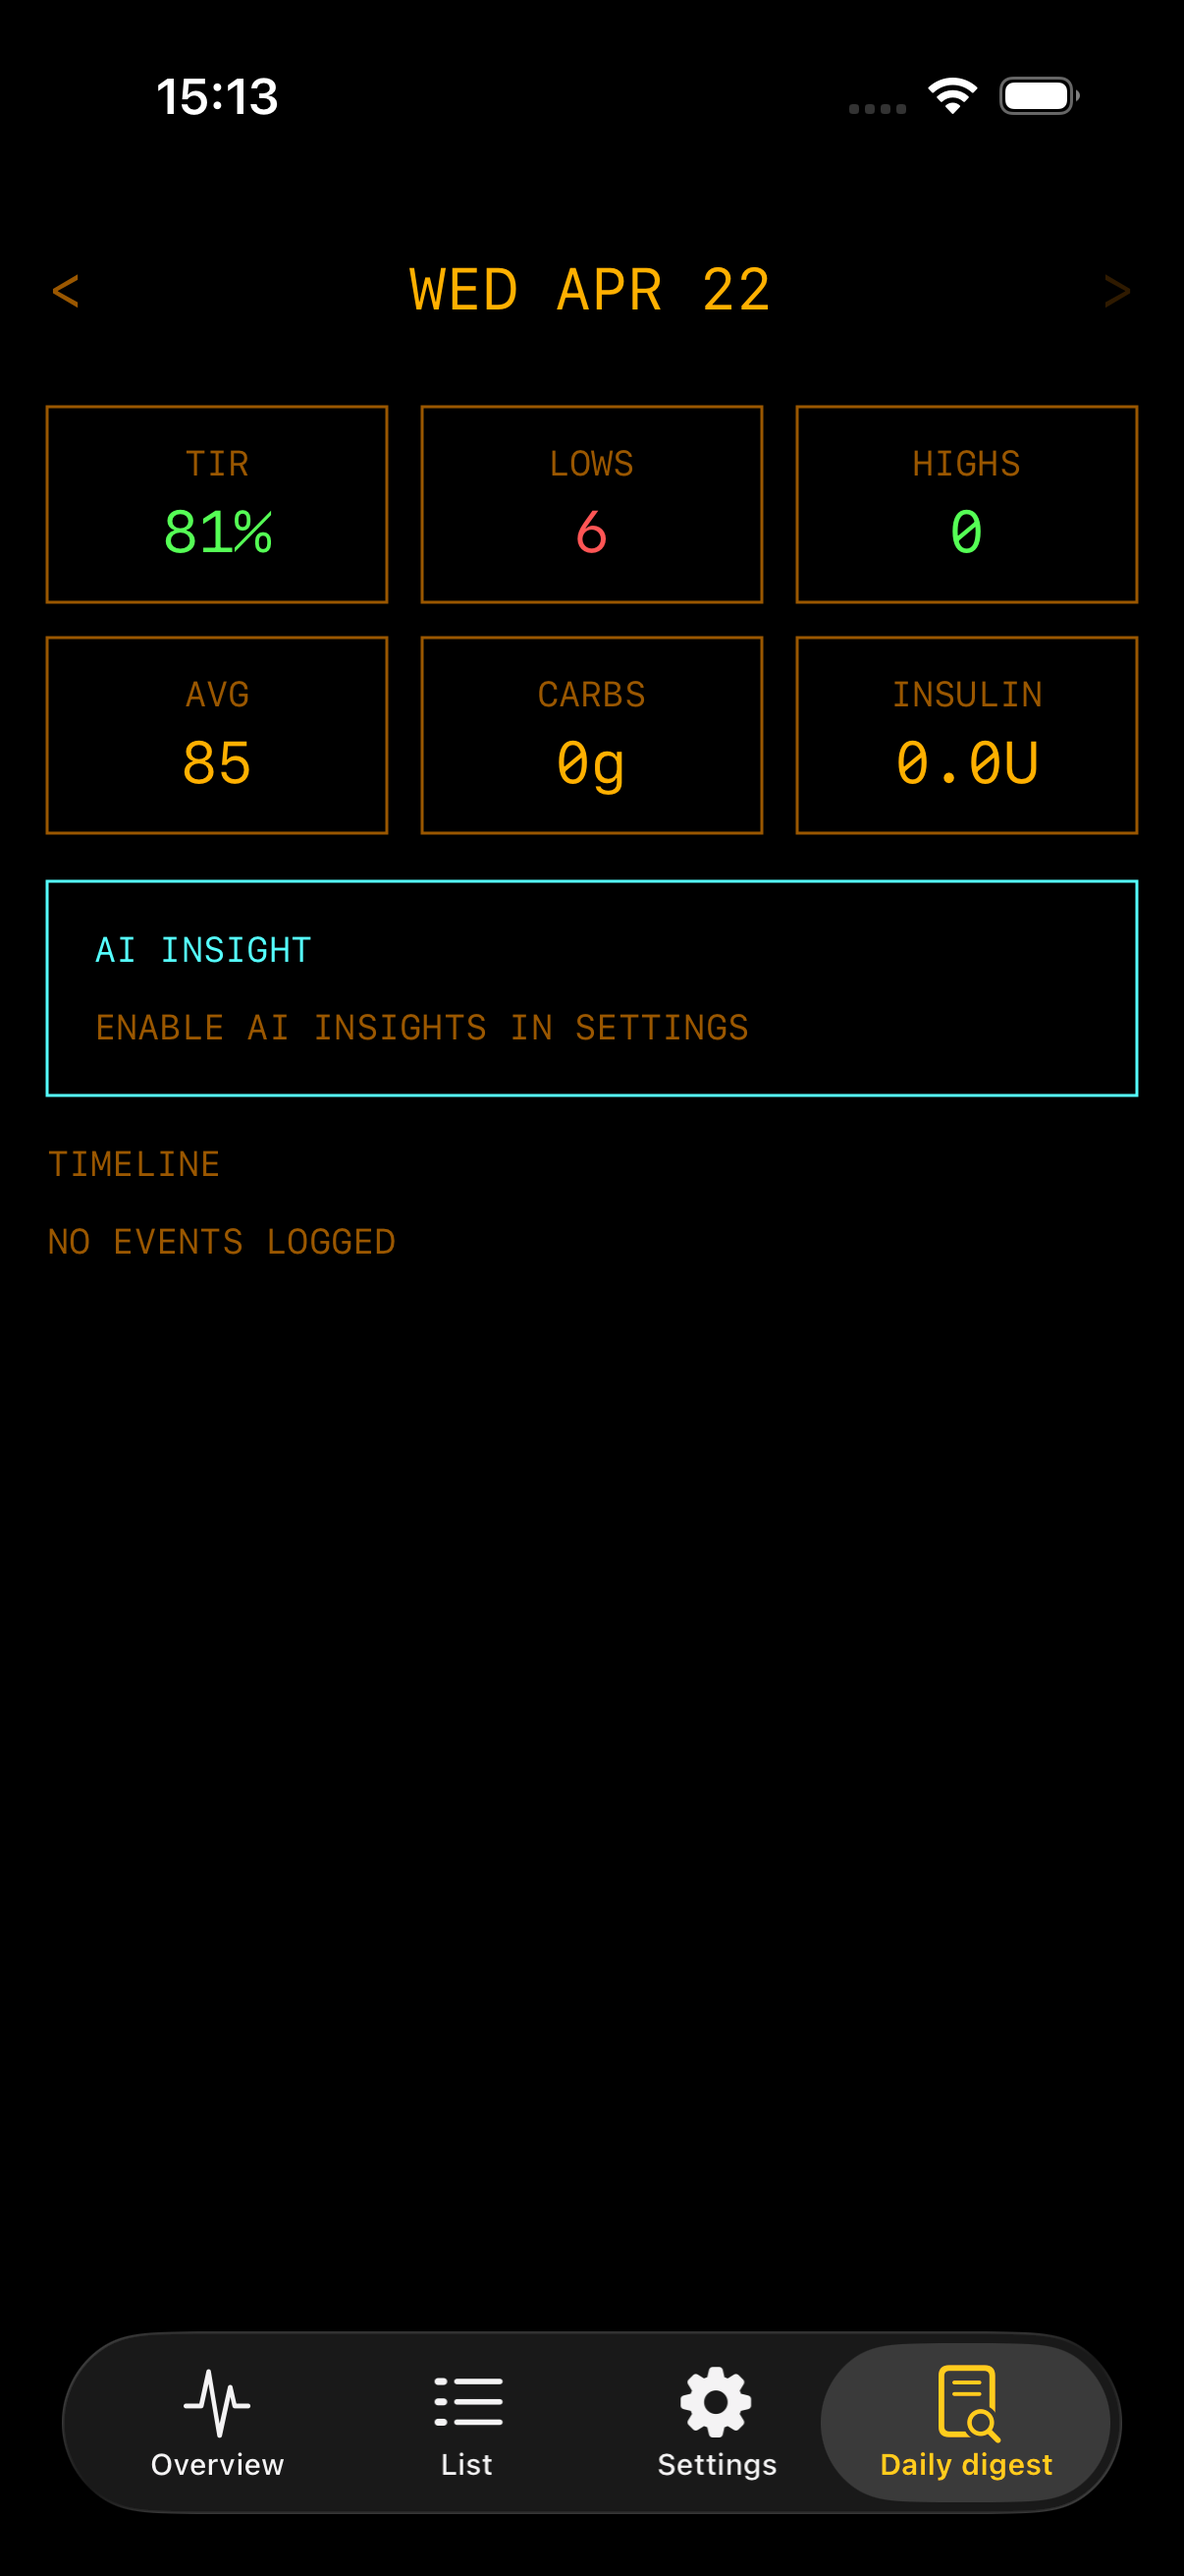
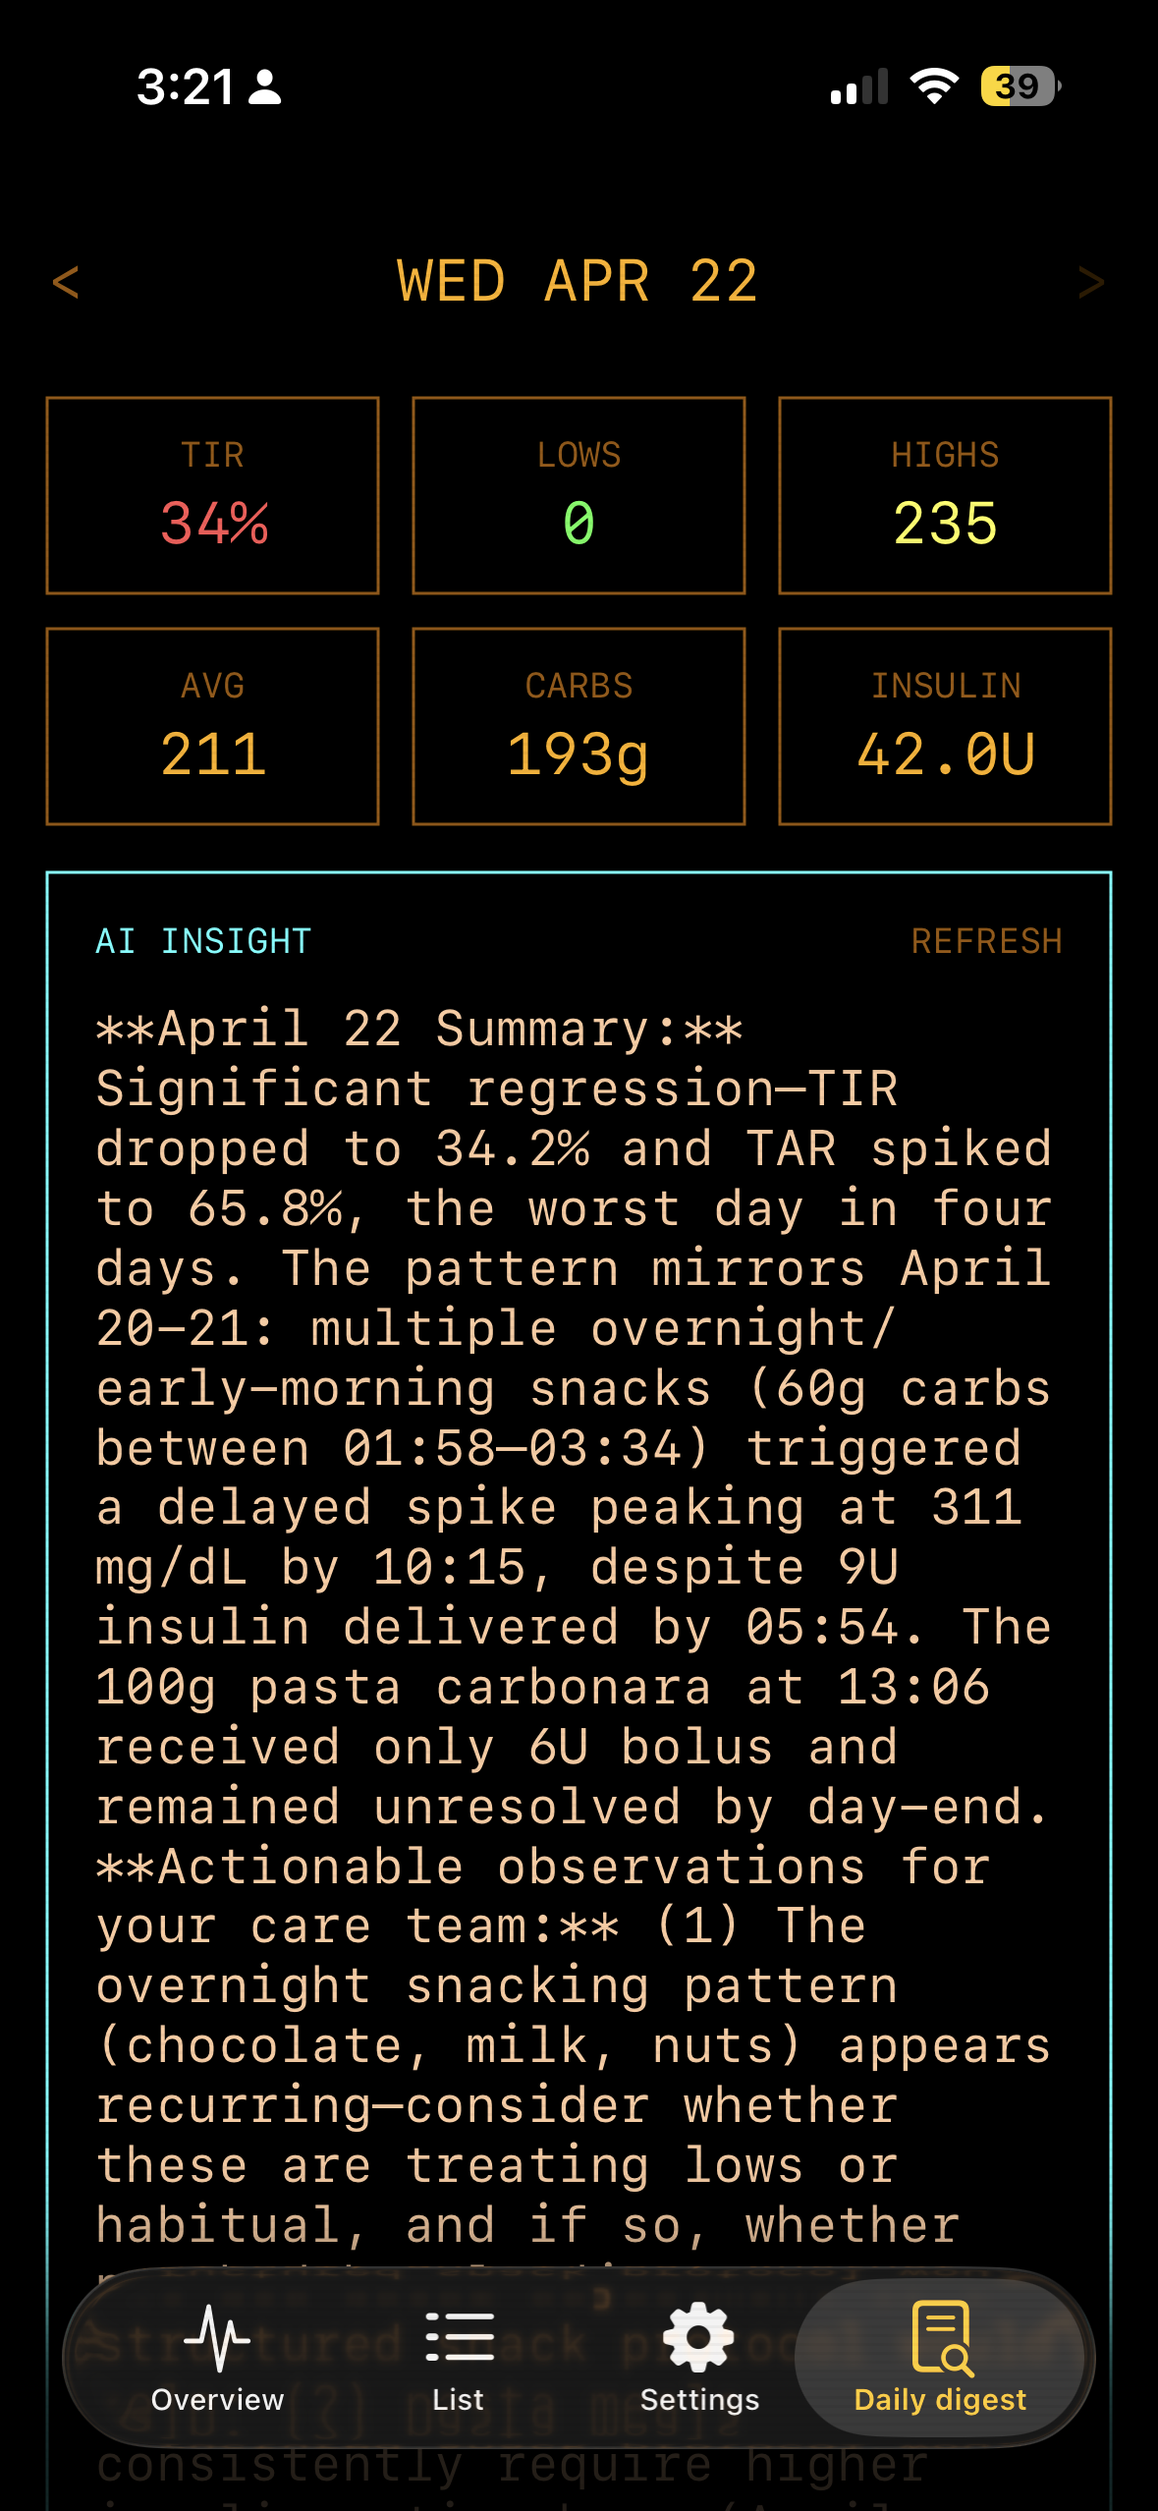
docs: replace 3 simulator shots with on-device captures
User provided better captures from a real build 61 install on device:

- Overview (dosbts-overview.png): 157 mg/dL, 12h chart with real peaks
  (157-320 range), event marker lane showing 3 meal markers
  (34g/100g/barcode) + insulin marker, IOB area overlay with the
  characteristic decay curves, red cross marker at predicted threshold.
  Replaces simulator shot that only had 10 minutes of ramp data.

- Daily digest (dosbts-digest.png): TIR 34.2% (red), LOWS 0, HIGHS 235,
  AVG 211, CARBS 193g, INSULIN 42.0U + a real AI-generated narrative
  ("Significant regression—TIR dropped to 34.2%...") that demonstrates
  the Claude Haiku output far better than the "ENABLE AI INSIGHTS IN
  SETTINGS" placeholder in the simulator shot.

- Meal entry (dosbts-meal-entry.png): the Ask AI path with a live
  search ("Carrot Cake") and keyboard up. Shows the feature that the
  simulator shot missed.

Settings panel stays as simulator since it's UI that renders the same
regardless.

Update the caption to reflect mixed origin.

diff --git a/README.md b/README.md
@@ -12,11 +12,11 @@
 
 | Overview | Daily digest |
 |:---:|:---:|
-| <img src="Screenshots/dosbts-overview.png" alt="Overview with glucose chart and predictive projection" width="280"> | <img src="Screenshots/dosbts-digest.png" alt="Daily digest stats grid and AI insight" width="280"> |
+| <img src="Screenshots/dosbts-overview.png" alt="Overview with glucose chart, event marker lane, and IOB overlay" width="280"> | <img src="Screenshots/dosbts-digest.png" alt="Daily digest stats grid and AI insight narrative" width="280"> |
 | **Meal entry** | **Settings** |
-| <img src="Screenshots/dosbts-meal-entry.png" alt="Meal entry with quick hypo treatments, manual, scan, and recents" width="280"> | <img src="Screenshots/dosbts-settings.png" alt="Glucose settings panel" width="280"> |
+| <img src="Screenshots/dosbts-meal-entry.png" alt="Unified meal entry with quick, manual, scan, photo, and Ask AI" width="280"> | <img src="Screenshots/dosbts-settings.png" alt="Glucose settings panel" width="280"> |
 
-<sub>Simulator screenshots, build 61, iOS 26.4 on iPhone 17. Real device shots with rich history coming in a later README refresh.</sub>
+<sub>Build 61 on TestFlight. Overview, digest, and meal entry are on-device with real data; settings is a simulator capture.</sub>
 
 ## What it is
 
